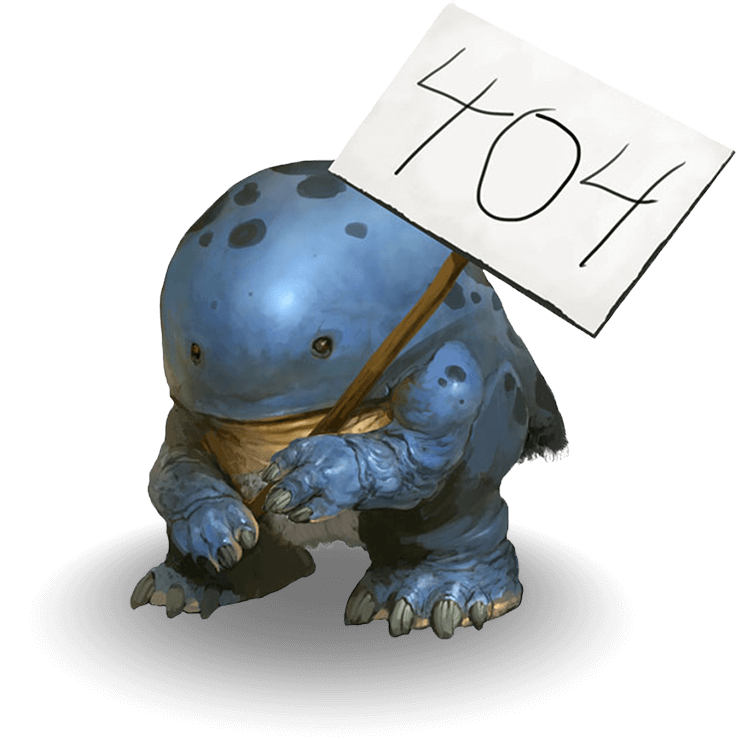
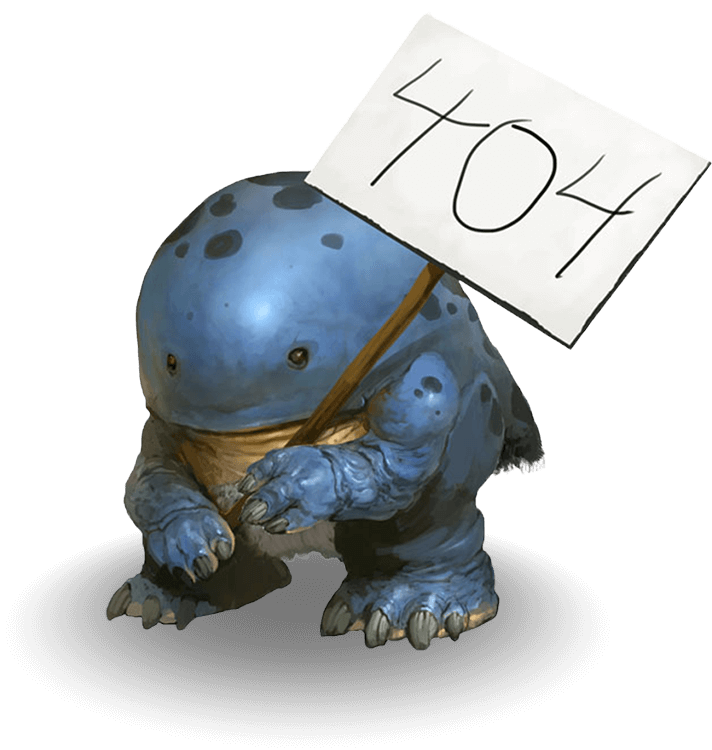
Anniversary update!

diff --git a/src/pages/Home.vue b/src/pages/Home.vue
@@ -18,8 +18,12 @@
       </video>-->
       <div class="feature-media__content">
         <div class="page-width page-padding">
+          <picture v-if="anniversary">
+            <source srcset="/static/img/party-quaggan.webp" type="image/webp">
+            <img class="party-quaggan" src="/static/img/party-quaggan.png" alt="">
+          </picture>
           <h1 class="feature-title">
-            Bring The World&nbsp;of Tyria Into&nbsp;Discord
+            {{ anniversary ? `Celebrate ${botAge} Years of&nbsp;GW2Bot!` : 'Bring The World&nbsp;of Tyria Into&nbsp;Discord' }}
           </h1>
           <a class="feature-button button button--giant" :href="$inviteLink" target="_blank">Add To Your Server!</a>
         </div>
@@ -51,6 +55,7 @@ export default {
   title: "GW2Bot - A Discord Bot for Guild Wars 2",
   data() {
     return {
+      botAge: (new Date()).getFullYear() - (new Date("September 9, 2017 18:18:00 GMT+00:00")).getFullYear(),
       month: ["january","february","march","april","may","june","july","august","september","october","november","december"][(new Date()).getMonth()],
       featureMedia: {
         january: "divinity-reach",
@@ -67,6 +72,20 @@ export default {
         december: "wintersday"
       }
     };
+  },
+  computed: {
+    anniversary() {
+      const today = (new Date());
+      if (
+        today.getMonth() === 8 &&
+        today.getDate() > 8 &&
+        today.getDate() < 30
+      ) {
+        return true;
+      } else {
+        return false;
+      }
+    }
   },
   mounted() {
     let resizeTimer;
@@ -166,6 +185,14 @@ export default {
               0 8px  32px rgba($black,.5),
               0 16px 64px rgba($black,.25),
               0 32px 128px rgba($black,.125);
+}
+
+.party-quaggan {
+  display: inline-block;
+  width: 100%;
+  max-width: 320px;
+  max-height: 394px;
+  vertical-align: top;
 }
 
 .bot-demo {

diff --git a/src/pages/NotFound.vue b/src/pages/NotFound.vue
@@ -31,8 +31,8 @@ export default {
 img {
   display: inline-block;
   width: 100%;
-  max-width: 336px;
-  max-height: 336px;
+  max-width: 356px;
+  max-height: 375px;
   vertical-align: top;
 }
 </style>
